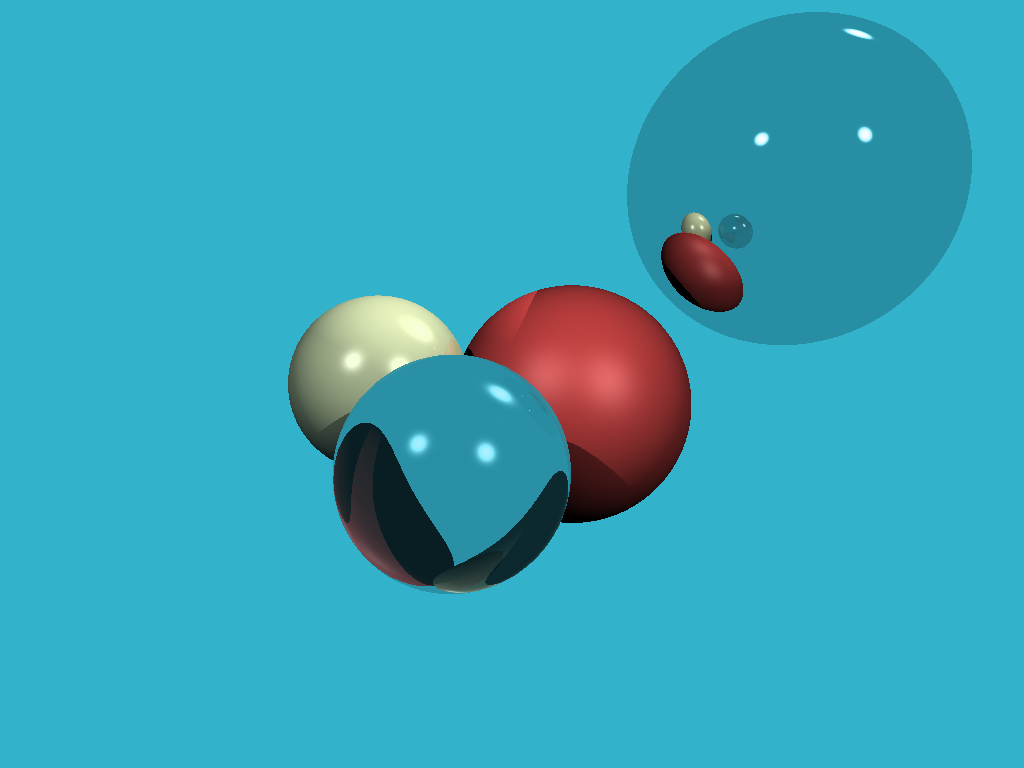
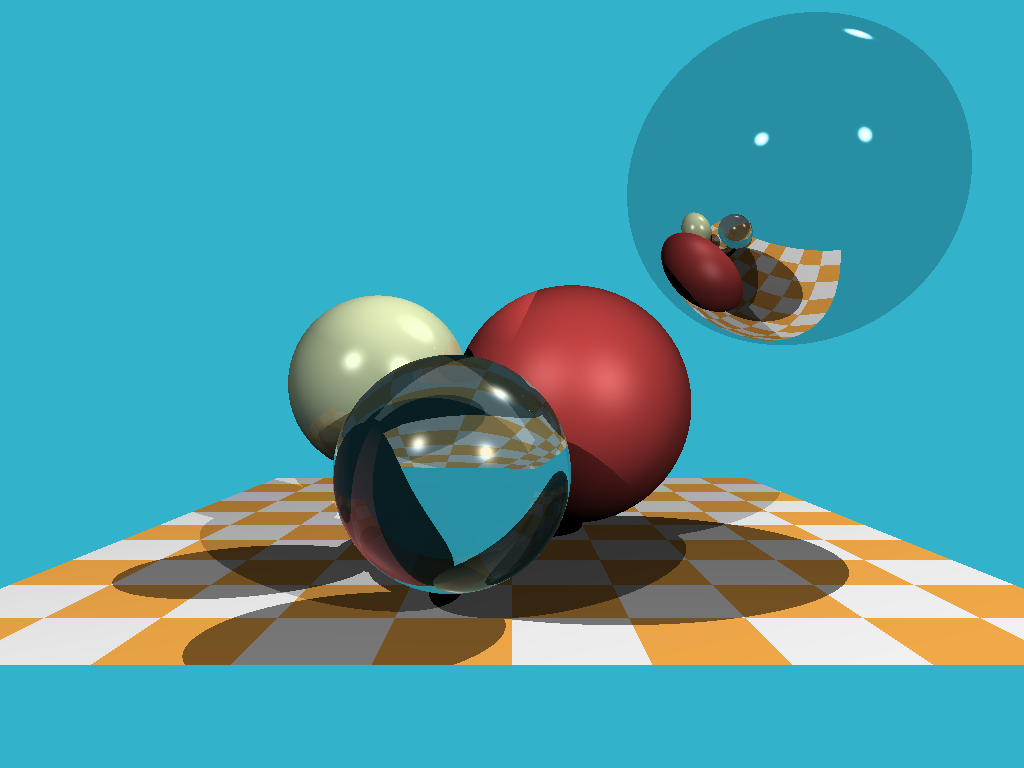
Add in the checkerboard

diff --git a/pyray.py b/pyray.py
@@ -120,7 +120,21 @@ def scene_intersect(orig, dir, spheres):
                 N = N_vec/LA.norm(N_vec)
                 material = s.material
     
-    return (spheres_dist<1000, material, N, hit)
+    checkerboard_dist = 1e308
+    if abs(dir[1]) > 1e-3:
+        d = -(orig[1] + 4)/dir[1]
+        pt = orig + dir*d
+        if d > 0 and abs(pt[0]) < 10 and pt[2] < -10 and pt[2] > -30 and d < spheres_dist:
+            checkerboard_dist = d
+            hit = pt
+            N = np.array([0., 1., 0.])
+            square = (int(.5*hit[0]+1000) + int(.5*hit[2]))
+            material = Material(1.0, [1., 0., 0., 0.], [1.,.7,.3], 0.)
+            if square & 1:
+                material.difuse_color = np.array([1.,1.,1.])
+            material.difuse_color *= .3
+
+    return (min(spheres_dist, checkerboard_dist)<1000, material, N, hit)
 
 @njit
 def cast_ray(orig, dir, spheres, background, lights, depth):

diff --git a/README.md b/README.md
@@ -5,7 +5,7 @@ I used Python for fun. I'm not a Python expert so I may not be using best practi
 
 For math/vectors I used Numpy, for image saving I used Pillow to save directly to PNG. I still think this is in the spirit of the original course in regards to third party libraries.
 
-I'm currently starting on Step 9. Here's the current output:
+I'm currently finished with step 9, here's the output:
 
 ![Output](out.png)
 
